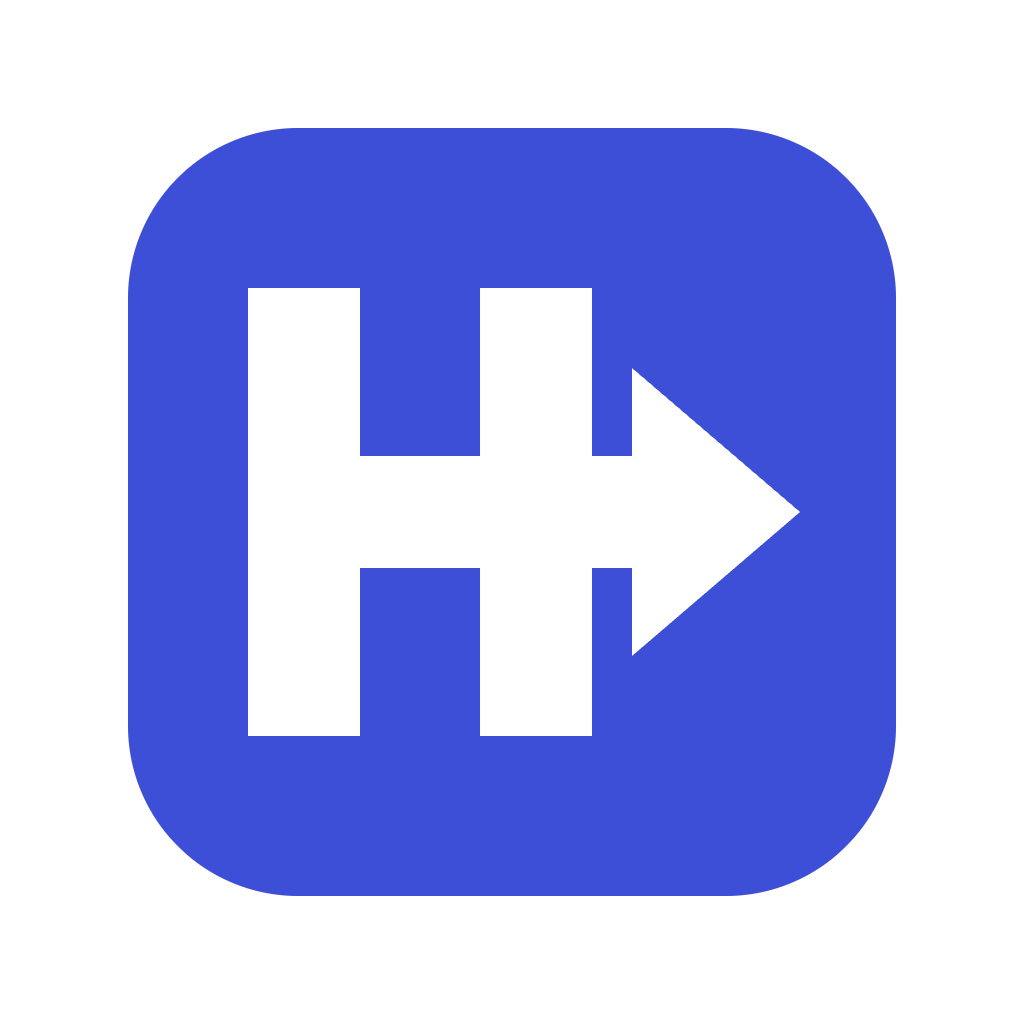
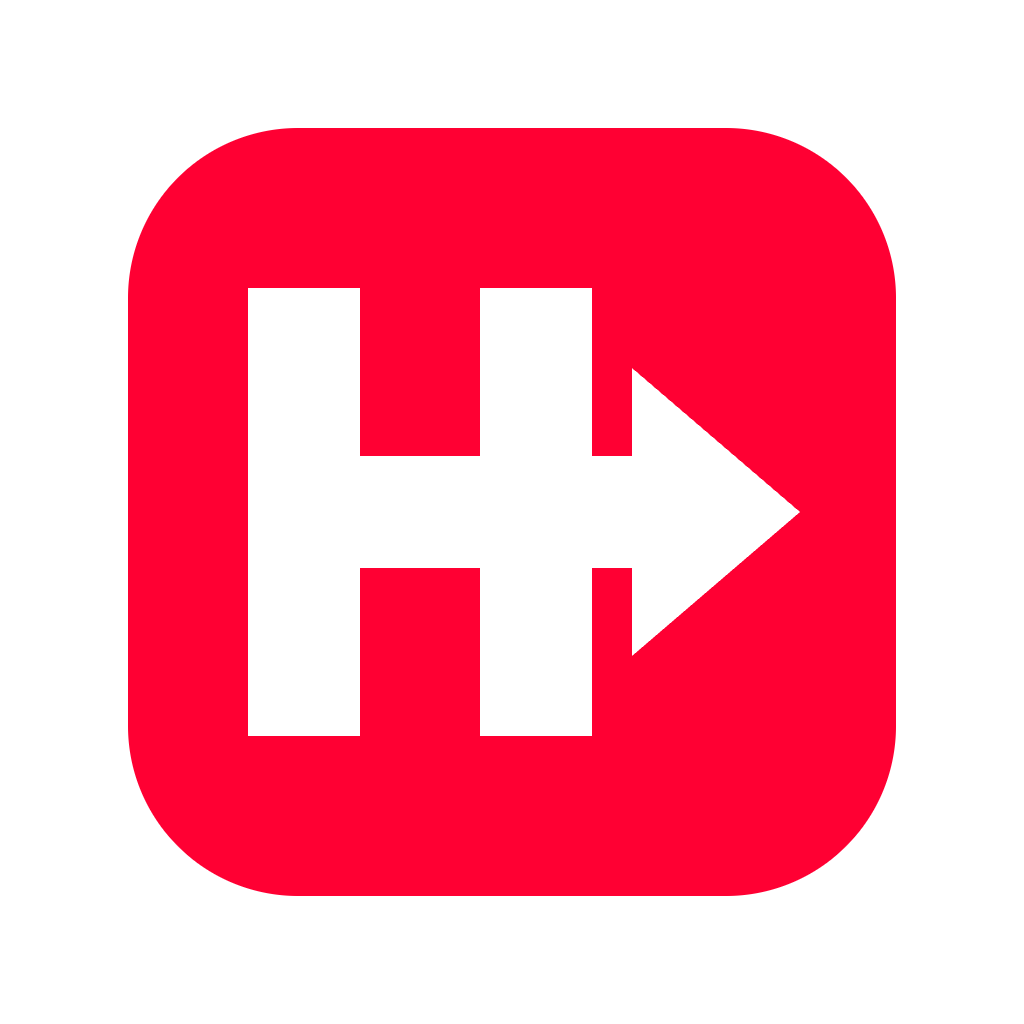
Red brand mark to match popup v2; fix author read on video-less pages
- Icon, logos and promo tiles recolored #3D4FD6 → #FF0033; RELEASE.md #2 now an accepted risk
- youtube-main: `own` requires a valid video id, so pages with no video no longer read res.videoDetails.author off undefined

diff --git a/src/entrypoints/youtube-main.content.ts b/src/entrypoints/youtube-main.content.ts
@@ -96,7 +96,7 @@ export default defineContentScript({
       const id = player?.getVideoData?.()?.video_id;
       const ok = typeof id === 'string' && VIDEO_ID.test(id);
       const res = ok && player.getPlayerResponse?.();
-      const own = res?.videoDetails?.videoId === id; // the response may still be the previous video's
+      const own = ok && res?.videoDetails?.videoId === id; // the response may still be the previous video's
       html.dataset.ytpPlayerVideo = ok ? id : '';
       html.dataset.ytpPlayerOwner = (own && res.microformat?.playerMicroformatRenderer?.ownerProfileUrl) || '';
       html.dataset.ytpPlayerAuthor = (own && res.videoDetails.author) || '';

diff --git a/RELEASE.md b/RELEASE.md
@@ -23,7 +23,7 @@ Status: `[x]` done · `[ ]` open · `[~]` partial / see issue sheet. Issues foun
 - [x] Content scripts limited to `www.youtube.com` (#5)
 - [x] No remote code; no `eval` / `new Function`; default CSP
 - [~] Privacy: every request listed in `PRIVACY.md`; needs a public URL + "Privacy practices" tab answers (#4)
-- [x] Trademark (#2): "YouTube" never first in the name; no YouTube logo or red play button in icon / promo art; "not affiliated with YouTube" line in the listing
+- [x] Trademark (#2): "YouTube" never first in the name; no YouTube logo in icon / promo art; "not affiliated with YouTube" line in the listing. The H▶ mark is on YouTube red `#FF0033` by choice: accepted risk, see #2
 - [x] Single-purpose statement written
 - [x] Listing assets: 128×128 icon, 5 screenshots (1280×800), promo tiles (440×280, 1400×560), long description — all 24-bit PNG, no alpha
 - [x] README and `features.md` match shipped behaviour; LICENSE present
@@ -78,12 +78,12 @@ Per feature
 ## Issue sheet
 
 Severity: **P0** blocks release · **P1** fix before release · **P2** nice to have.
-Status: open · fixing · fixed · deferred · won't fix.
+Status: open · fixing · fixed · deferred · won’t fix · accepted risk.
 
 | ID | Sev | Area | Issue | Found by | Status | Fix |
 |---|---|---|---|---|---|---|
 | 1 | P0 | Channel groups (WIP) | YouTube's RSS feeds 404 for every channel, so every group showed "No recent videos" | live test (signed in) | fixed | Sort by the cards' relative date ("4 days ago") parsed with `Intl.RelativeTimeFormat`, verified on 26 UI languages; RSS request dropped (`group-grid.ts`) |
-| 2 | P0 | Store / branding | Icon, promo tiles and README logos were YouTube's logo mark (red rounded square + white play triangle) — trademark / impersonation rejection risk | store audit | fixed | New mark: a bold "H" whose crossbar runs into a forward arrow, white on indigo `#3D4FD6` (concept from Codex imagegen, rebuilt as vector). Pixel-snapped 16 / 32 px variants (`branding/icon-16.svg`, `icon-32.svg`; 48 renders from the 32 grid); icons, promo tiles and logos regenerated |
+| 2 | P0 | Store / branding | Icon, promo tiles and README logos were YouTube's logo mark (red rounded square + white play triangle) — trademark / impersonation rejection risk | store audit | accepted risk | New mark: a bold "H" whose crossbar runs into a forward arrow, white on indigo `#3D4FD6` (concept from Codex imagegen, rebuilt as vector). Pixel-snapped 16 / 32 px variants (`branding/icon-16.svg`, `icon-32.svg`; 48 renders from the 32 grid); icons, promo tiles and logos regenerated. 2026-10-26: recolored to YouTube red `#FF0033` to match popup v2 (owner's call). Still a red rounded square with a white forward shape, so the review risk is back: accepted risk; revert to `#3D4FD6` if the store objects |
 | 3 | P0 | Store listing | No screenshots (≥ 1 at 1280×800 required) | store audit | fixed | `branding/screenshots/`: queue panel, speed chip + SponsorBlock bar, channel-group grid, focus-mode calm home, popup — 1280×800 24-bit PNG, YouTube dark, signed out (script: `/tmp/cc/youtube-pro/shots/shots.js`) |
 | 4 | P0 | Privacy | No privacy policy (required: SponsorBlock lookups leave the browser) | store audit | fixed | `PRIVACY.md`; needs a public URL (GitHub file / Pages) in the dashboard |
 | 5 | P1 | Manifest | `*://*.youtube.com/*` also ran on music., studio., m., accounts.; default 1.25× speed would speed up YouTube Music | store audit | fixed | `https://www.youtube.com/*` in host permissions, both content scripts, popup tab query |
